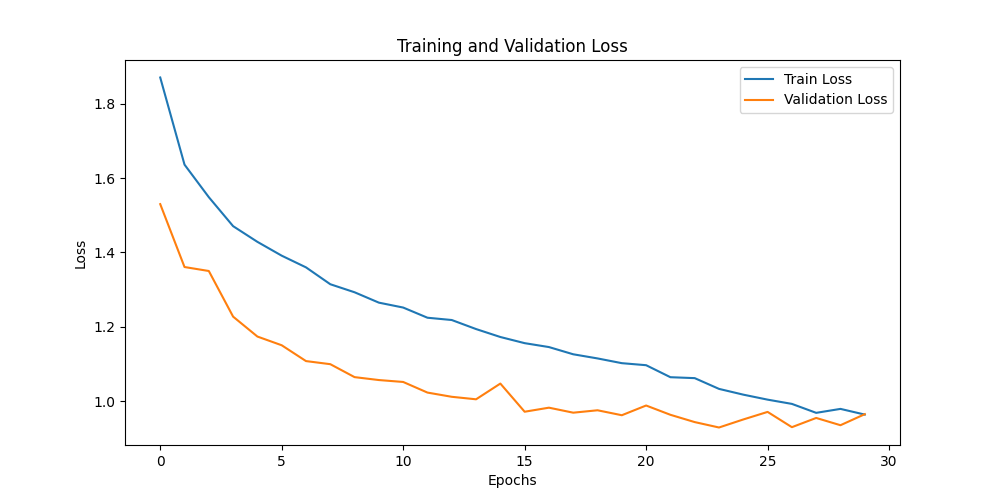
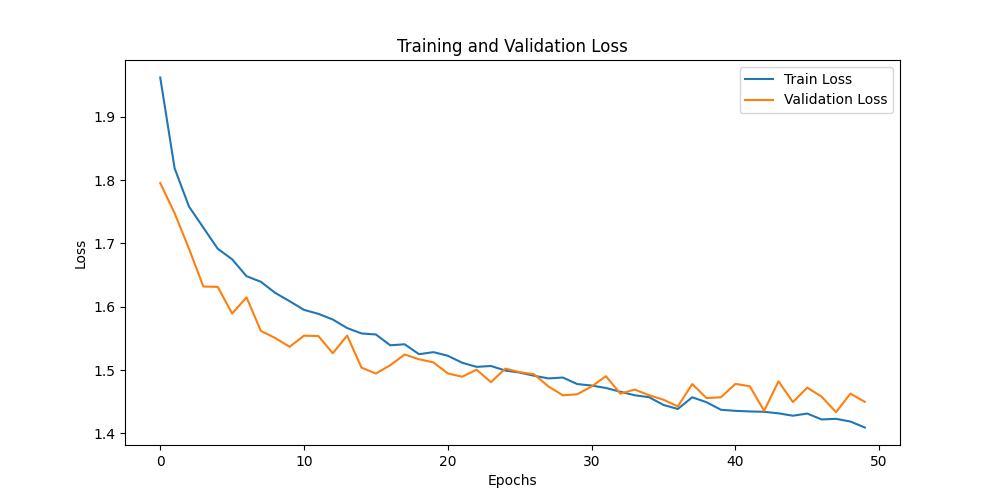
Ejercicio 5

diff --git a/src/exercise_05/model.py b/src/exercise_05/model.py
@@ -27,14 +27,13 @@ class MultiLayerPerceptron(nn.Module): # Hereda de nn.Module, es un requisito
         input -> fc1 -> ReLU -> fc2 -> ReLU -> fc3 (salida)
     use_activation debe ser False para que la salida dé valores positivos y negativos
     """
-    def __init__(self, input_dim, output_dim, num_hidden_neurons, apodo): # Parametros de entrada y salida
+    def __init__(self, input_dim, output_dim, num_hidden_neurons): # Parametros de entrada y salida
         super().__init__() # Es necesario
         self.fc1 = nn.Linear(input_dim, num_hidden_neurons) # Capa fully conected (lineal)
         self.fc2 = nn.Linear(num_hidden_neurons, num_hidden_neurons)
         self.fc3 = nn.Linear(num_hidden_neurons, output_dim)
 
         self.activation = nn.ReLU()
-        self.apodo = apodo
 
     def forward(self, x, use_activation=False): # Se pone la última ReLU a False para que la salida pueda ser positiva o negativa, ya que la función original tiene valores positivos y negativos
         x = self.activation(self.fc1(x))
@@ -46,45 +45,27 @@ class MultiLayerPerceptron(nn.Module): # Hereda de nn.Module, es un requisito
         return x
 
 
-class ConvolutionalNeuralNetwork(nn.Module): # Hereda de nn.Module, es un requisito
+class MultiLayerPerceptron_05(nn.Module): # Hereda de nn.Module, es un requisito
+    """ 
+    Modelo de perceptrón multicapa con 2 capas ocultas para exercise_05:
+        input -> fc1 -> ReLU -> fc2 -> ReLU -> fc3 (salida)
     """
-    Modelo de red concolucional con 2 capas ocultas para exercise_05:
-        Input (3x32x32) -> Conv(3→32) + ReLU -> MaxPool (↓ tamaño a 16x16) -> Conv(32→64) + ReLU -> MaxPool (↓ tamaño a 8x8) -> Flatten -> Linear + ReLU -> Dropout -> Linear
-    """
-
-    def __init__(self, output_dim, num_hidden_neurons): # Parametros de salida y número de neuronas en las capas ocultas
-        super().__init__()
-
-        # Bloque convolucional 1
-        self.conv1 = nn.Conv2d(3, 32, kernel_size=3, padding=1) # Conv2d(in_channels, out_channels, kernel_size, padding).
-        self.pool1 = nn.MaxPool2d(2, 2) # MaxPool2d(kernel_size, stride). Reduce el tamaño de la imagen a la mitad (de 32x32 a 16x16) y se queda con la información más importante de cada bloque de 2x2 píxeles. Esto ayuda a reducir el número de parámetros y a evitar el overfitting.
-
-        # Bloque convolucional 2
-        self.conv2 = nn.Conv2d(32, 64, kernel_size=3, padding=1)
-        self.pool2 = nn.MaxPool2d(2, 2)
-
-        # Clasificador
+    def __init__(self, input_dim, output_dim, num_hidden_neurons): # Parametros de entrada y salida
+        super().__init__() # Es necesario
         self.flatten = nn.Flatten() # Aplanar la imagen de 3D a 1D para que pueda ser procesada por las capas lineales
-        self.fc1 = nn.Linear(64 * 8 * 8, num_hidden_neurons) # Capa fully conected (lineal)
-        self.dropout = nn.Dropout(p=0.5) # Dropout para evitar el overfitting
-        self.fc2 = nn.Linear(num_hidden_neurons, output_dim)
+        self.fc1 = nn.Linear(input_dim, num_hidden_neurons) # Capa fully conected (lineal)
+        self.fc2 = nn.Linear(num_hidden_neurons, num_hidden_neurons)
+        self.fc3 = nn.Linear(num_hidden_neurons, output_dim)
+
+        self.dropout = nn.Dropout(p=0.2) # Capa de dropout para evitar el overfitting
 
     def forward(self, x):
-
-        # Bloque 1
-        x = F.relu(self.conv1(x)) # Primera transformación lineal + activación ReLU
-        x = self.pool1(x)
-
-        # Bloque 2
-        x = F.relu(self.conv2(x))
-        x = self.pool2(x)
-
-        # Clasificador
-        x = self.flatten(x)
-        x = F.relu(self.fc1(x))
-        x = self.dropout(x)
-        x = self.fc2(x) # logits (sin softmax)
-
+        x = self.flatten(x) # Aplanar la imagen de 3D a 1D
+        x = F.relu(self.fc1(x)) # Primera transformación lineal + activación ReLU
+        x = self.dropout(x) # Aplicar dropout después de la primera capa oculta
+        x = F.relu(self.fc2(x)) # Segunda transformación lineal + activación ReLU
+        x = self.dropout(x) # Aplicar dropout después de la segunda capa oculta
+        x = self.fc3(x) # Capa de salida sin activación, ya que es un problema de clasificación y se usará CrossEntropyLoss que incluye softmax
         return x
 
 

diff --git a/src/exercise_05/train.py b/src/exercise_05/train.py
@@ -11,7 +11,7 @@ from torchvision import transforms
 from tqdm import tqdm
 
 from dataset import CIFAR10Dataset
-from model import ConvolutionalNeuralNetwork
+from model import MultiLayerPerceptron_05
 
 
 def get_device(force: str = "auto") -> torch.device:
@@ -42,7 +42,7 @@ def train_model(output_folder: Path, device: torch.device):
     train_dataset, val_dataset, test_dataset = random_split(dataset, [train_size, val_size, test_size])
 
     # Create DataLoaders for the datasets
-    batch_size=64
+    batch_size=64 # Se aumenta para reducir el tiempo de entrenamiento
     pin_memory = True if device.type == "cuda" else False
     train_loader = DataLoader(train_dataset, batch_size=batch_size, shuffle=True, pin_memory=pin_memory)
     val_loader = DataLoader(val_dataset, batch_size=batch_size, shuffle=False, pin_memory=pin_memory)
@@ -51,15 +51,14 @@ def train_model(output_folder: Path, device: torch.device):
     # Define the model, loss function, and optimizer
     input_dim=3*32*32 # Las imagenes CIFAR-10 son de 32x32 píxeles con 3 canales (RGB)
     output_dim=10 # CIFAR-10 tiene 10 clases
-    num_hidden_neurons=64 # Número de neuronas en las capas ocultas
+    num_hidden_neurons=512 # Número de neuronas en las capas ocultas
     lr=0.001 # Learning rate (tasa de aprendizaje)
-    # model = MultiLayerPerceptron_05(input_dim=input_dim, output_dim=output_dim, num_hidden_neurons=num_hidden_neurons).to(device)
-    model = ConvolutionalNeuralNetwork(output_dim=output_dim, num_hidden_neurons=num_hidden_neurons).to(device)
+    model = MultiLayerPerceptron_05(input_dim=input_dim, output_dim=output_dim, num_hidden_neurons=num_hidden_neurons).to(device)
     criterion = nn.CrossEntropyLoss() # Función de pérdida. Se usa CrossEntropyLoss porque es un problema de clasificación
     optimizer = optim.AdamW(model.parameters(), lr=lr) # AdamW es el algoritmo de optimización que se usará para actualizar los pesos del modelo durante el entrenamiento
 
     # Training loop with validation and saving best weights
-    num_epochs = 30
+    num_epochs = 50
     best_val_loss = float("inf")
     best_model_path = output_folder / "best_model.pth"
 
@@ -146,4 +145,11 @@ if __name__ == "__main__":
     # Con 256 neuronas y 100 epocas: Best validation loss: 15090
     # con una cnn se han bajdo las epocas ya que empezaba a memorizar, también se bajan las neuronas en la fullyconected
     # se bajan las neuronas a 64 para evitar el overfitting
-    
+
+    # con 128 neuronas, 200 epocas y batch size de 63: Best validation loss: 14167
+    # con 128 neuronas, 30 epocas y batch size de 64: Best validation loss: 15306
+    # con 256 neuronas, 30 epocas y batch size de 64: Best validation loss: 14675
+    # con 256 neuronas, 40 epocas y batch size de 64: Best validation loss: 14521
+    # con 256 neuronas, 50 epocas y batch size de 64: Best validation loss: 1.4515
+    # con 512 neuronas, 50 epocas y batch size de 64: Best validation loss: 1.4335
+    # con el dropout se ha bajado el best validation loss 

diff --git a/src/exercise_05/evaluate.py b/src/exercise_05/evaluate.py
@@ -12,7 +12,7 @@ from torch.utils.data import DataLoader, random_split
 from torchvision import transforms
 
 from dataset import CIFAR10Dataset
-from model import ConvolutionalNeuralNetwork
+from model import MultiLayerPerceptron_05
 
 
 def get_device(force: str = "auto") -> torch.device:
@@ -97,7 +97,7 @@ def evaluate_and_plot(loader, model, dataset_name, output_folder, device, class_
         cm[int(t), int(p)] += 1
 
     plt.figure(figsize=(10, 8))
-    sns.heatmap(cm, annot=False, fmt="d", xticklabels=class_names, yticklabels=class_names)
+    sns.heatmap(cm, annot=True, fmt="d", cmap="Blues", xticklabels=class_names, yticklabels=class_names)
     plt.title(f"Confusion matrix for {dataset_name} dataset")
     plt.ylabel("True label")
     plt.xlabel("Predicted label")
@@ -161,8 +161,8 @@ if __name__ == "__main__":
     # Load the best model weights
     input_dim=3*32*32 # Las imagenes CIFAR-10 son de 32x32 píxeles con 3 canales (RGB)
     output_dim=10 # CIFAR-10 tiene 10 clases
-    num_hidden_neurons=64 # Número de neuronas en las capas ocultas
-    model = ConvolutionalNeuralNetwork(output_dim=output_dim, num_hidden_neurons=num_hidden_neurons).to(device)
+    num_hidden_neurons=512 # Número de neuronas en las capas ocultas
+    model = MultiLayerPerceptron_05(input_dim=input_dim, output_dim=output_dim, num_hidden_neurons=num_hidden_neurons).to(device)
     model.load_state_dict(torch.load(output_folder / "best_model.pth", map_location=device, weights_only=True))
 
     class_names = dataset.data.classes
